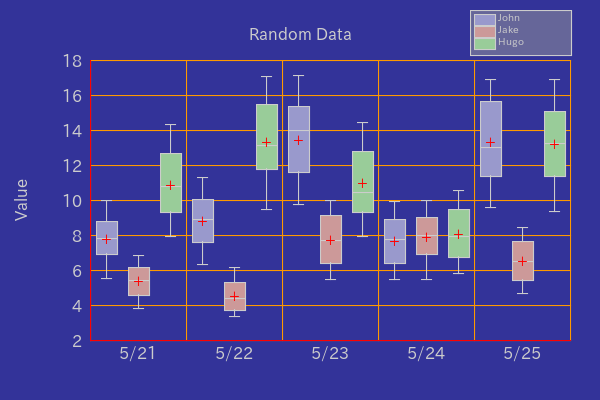
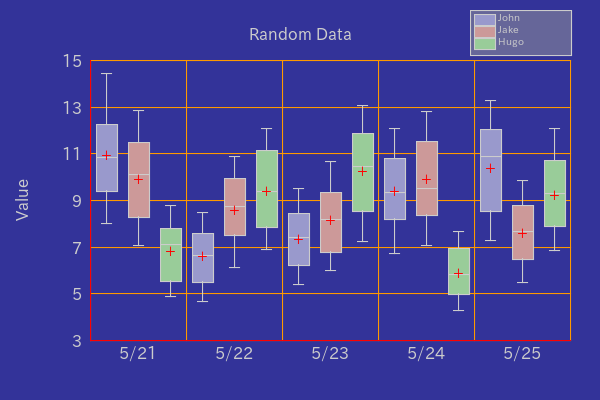
Upgrade dependencies
- Upgrade dependencies
- PHP8.4 compatibility
- Replace phpenv with mise
- Remove phpmd
- Update README

diff --git a/src/Plotter.php b/src/Plotter.php
@@ -12,9 +12,6 @@ use Macocci7\PhpPlotter2d\Transformer;
  * class for analysis
  * @author  macocci7 <macocci7@yahoo.co.jp>
  * @license MIT
- * @SuppressWarnings(PHPMD.ExcessiveClassComplexity)
- * @SuppressWarnings(PHPMD.CyclomaticComplexity)
- * @SuppressWarnings(PHPMD.NPathComplexity)
  */
 class Plotter extends Analyzer
 {
@@ -192,10 +189,10 @@ class Plotter extends Analyzer
         if (!$this->gridHeightPitch) {
             $this->gridHeightPitch = 1;
             if ($this->gridHeightPitch < 0.125 * $gridHeightSpan) {
-                $this->gridHeightPitch = ( (int) (0.125 * $gridHeightSpan * 10)) / 10;
+                $this->gridHeightPitch = (int) (( (int) (0.125 * $gridHeightSpan * 10)) / 10);
             }
             if ($this->gridHeightPitch > 0.2 * $gridHeightSpan) {
-                $this->gridHeightPitch = ( (int) (0.200 * $gridHeightSpan * 10)) / 10;
+                $this->gridHeightPitch = (int) (( (int) (0.200 * $gridHeightSpan * 10)) / 10);
             }
         }
     }
@@ -211,12 +208,12 @@ class Plotter extends Analyzer
                 'height' => $this->canvasHeight,
             ],
             viewport: $this->viewport,
-            plotarea: $this->plotarea,
+            plotarea: $this->plotarea,  // @phpstan-ignore-line
             backgroundColor: $this->canvasBackgroundColor,
         );
         $this->transformer = new Transformer(
             viewport: $this->viewport,
-            plotarea: $this->plotarea,
+            plotarea: $this->plotarea,  // @phpstan-ignore-line
         );
     }
 
@@ -637,7 +634,7 @@ class Plotter extends Analyzer
      */
     private function plotLabels()
     {
-        if (!is_array($this->labels)) {
+        if (empty($this->labels)) {
             return $this;
         }
         $offset = $this->plotarea['offset'];
@@ -648,8 +645,8 @@ class Plotter extends Analyzer
             if (!is_string($label) && !is_numeric($label)) {
                 continue;
             }
-            $x = (int) ($baseX + ($index + 0.5) * $gridSpanX);
-            $y = (int) ($baseY + $this->fontSize * 1.2);
+            $x = (int) round($baseX + ($index + 0.5) * $gridSpanX);
+            $y = (int) round($baseY + $this->fontSize * 1.2);
             $this->canvas->drawText(
                 text: (string) $label,
                 x: $x,
@@ -673,8 +670,8 @@ class Plotter extends Analyzer
         $coord = $this->transformer->getCoord(0, 0);
         $offset = $this->plotarea['offset'];
         $baseY = $coord['y'] + $offset[1];
-        $x = (int) ($this->canvasWidth / 2);
-        $y = (int) ($baseY + (1 - $this->frameYRatio) * $this->canvasHeight / 3);
+        $x = (int) round($this->canvasWidth / 2);
+        $y = (int) round($baseY + (1 - $this->frameYRatio) * $this->canvasHeight / 3);
         $this->canvas->drawText(
             text: (string) $this->labelX,
             x: $x,
@@ -696,8 +693,8 @@ class Plotter extends Analyzer
     {
         $width = $this->canvasHeight;
         $height = (int) ($this->canvasWidth * (1 - $this->frameXRatio) / 3);
-        $x = $width / 2;
-        $y = ($height + $this->fontSize) / 2;
+        $x = (int) round($width / 2);
+        $y = (int) round(($height + $this->fontSize) / 2);
         $this->canvas->drawText(
             text: (string) $this->labelY,
             x: $x,
@@ -821,9 +818,6 @@ class Plotter extends Analyzer
     {
         if (strlen($filePath) === 0) {
             throw new \Exception("empty string specified for file path.");
-        }
-        if (!is_array($this->dataSet)) {
-            throw new \Exception('Invalid type of property: Plotter::$data array expected.');
         }
         if (empty($this->dataSet)) {
             throw new \Exception("Empty data specified.");

diff --git a/src/Analyzer.php b/src/Analyzer.php
@@ -22,7 +22,7 @@ class Analyzer
     /**
      * @var array<string, mixed>    $parsed
      */
-    public array $parsed;
+    public array $parsed = [];
     protected int|float $limitUpper;
     protected int|float $limitLower;
     /**
@@ -150,9 +150,6 @@ class Analyzer
      */
     public function getUcl()
     {
-        if (!is_array($this->parsed)) {
-            return null;
-        }
         if (!array_key_exists('ThirdQuartile', $this->parsed)) {
             return null;
         }
@@ -168,9 +165,6 @@ class Analyzer
      */
     public function getLcl()
     {
-        if (!is_array($this->parsed)) {
-            return null;
-        }
         if (!array_key_exists('FirstQuartile', $this->parsed)) {
             return null;
         }
@@ -186,9 +180,6 @@ class Analyzer
      */
     public function getOutliers()
     {
-        if (!is_array($this->parsed)) {
-            return null;
-        }
         if (!array_key_exists('data', $this->parsed)) {
             return null;
         }

diff --git a/examples/class/CsvUtil.php b/examples/class/CsvUtil.php
@@ -55,7 +55,7 @@ class CsvUtil
         if (!file_exists($csvFileName)) {
             echo "CsvUtil::getDailyData(): '" . $csvFileName . "' does not exist.\n";
         }
-        $csv = array_map('str_getcsv', file($csvFileName));
+        $csv = array_map(fn ($fn) => str_getcsv($fn, ",", "\"", "\\"), file($csvFileName));
         $groupBy = $this->groupBy($csv, "game_date", "release_speed");
         foreach ($groupBy as $index => $row) {
             $groupBy[$index] = $this->convertString2IntegerInArray($row);

diff --git a/src/Traits/AttributeTrait.php b/src/Traits/AttributeTrait.php
@@ -11,7 +11,7 @@ trait AttributeTrait
     /**
      * @var string[]    $labels
      */
-    protected array $labels;
+    protected array $labels = [];
     protected string $labelX;
     protected string $labelY;
     protected string $caption;

diff --git a/src/Helpers/Config.php b/src/Helpers/Config.php
@@ -9,7 +9,6 @@ use Nette\Neon\Neon;
  * Config operator.
  * @author  macocci7 <macocci7@yahoo.co.jp>
  * @license MIT
- * @SuppressWarnings(PHPMD.ElseExpression)
  */
 class Config
 {

diff --git a/README.md b/README.md
@@ -45,6 +45,11 @@ Transparent background is also supported.
 
 - PHP 8.1 or later
 - Imagick PHP Extension
+
+    Check with commands:
+    ```bash
+    php -i | grep imagick
+    ```
 - Composer
 
 ## 4. Installation
@@ -545,6 +550,6 @@ You can set transparent background like this.
 
 *Document created: 2023/05/28*
 
-*Document updated: 2024/04/18*
+*Document updated: 2025/01/02*
 
-Copyright 2023 - 2024 macocci7
+Copyright 2023 - 2025 macocci7
